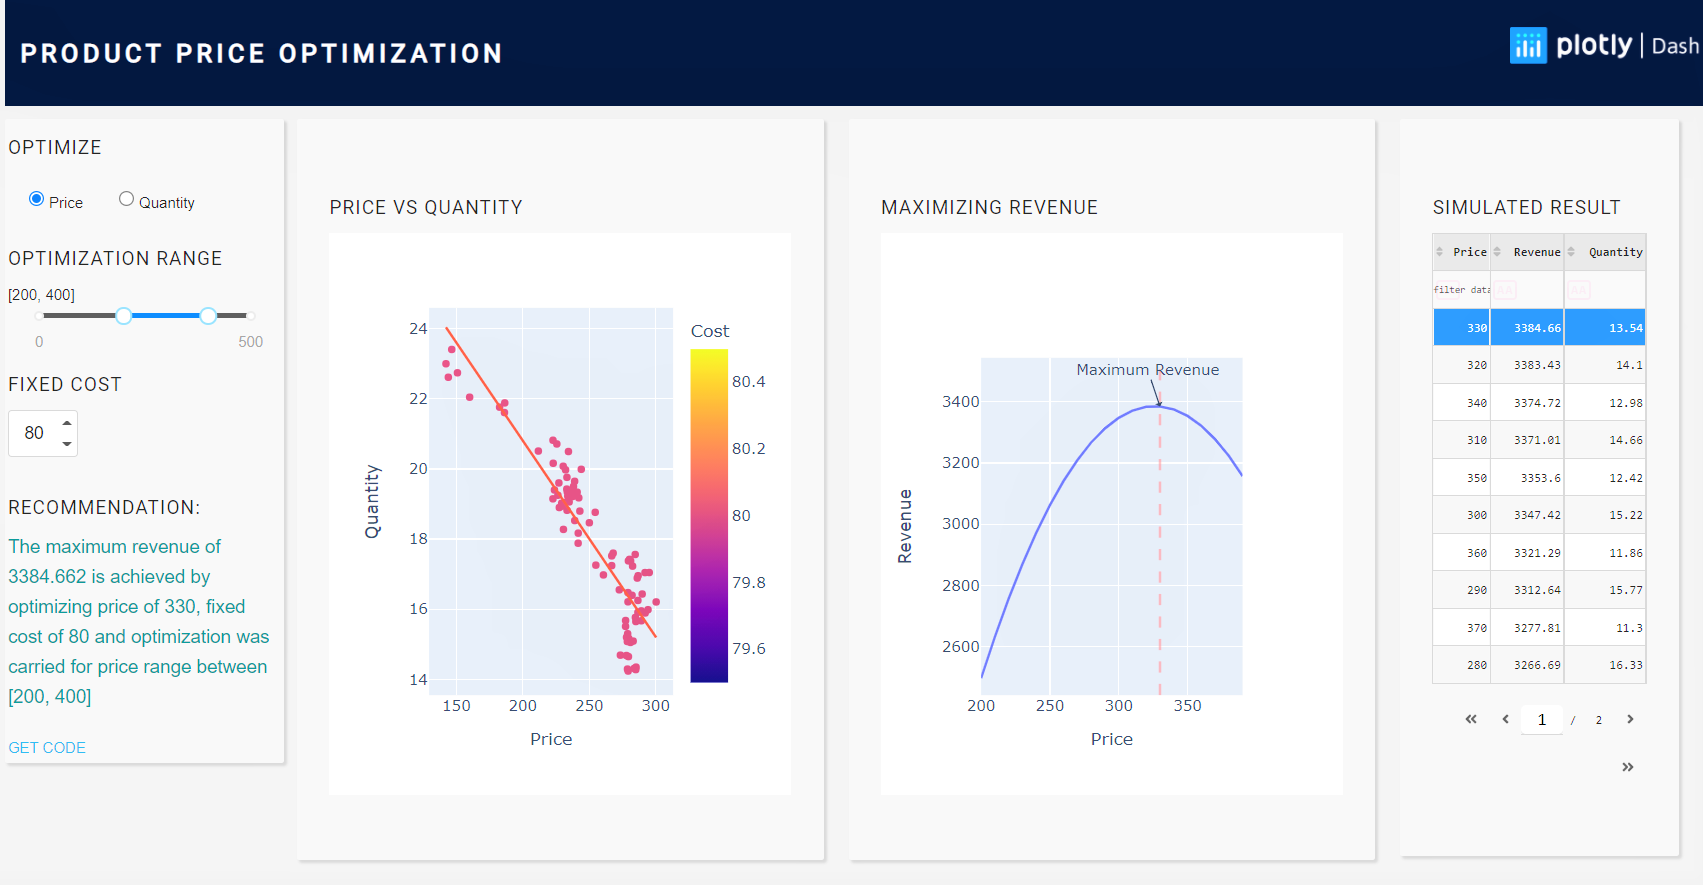
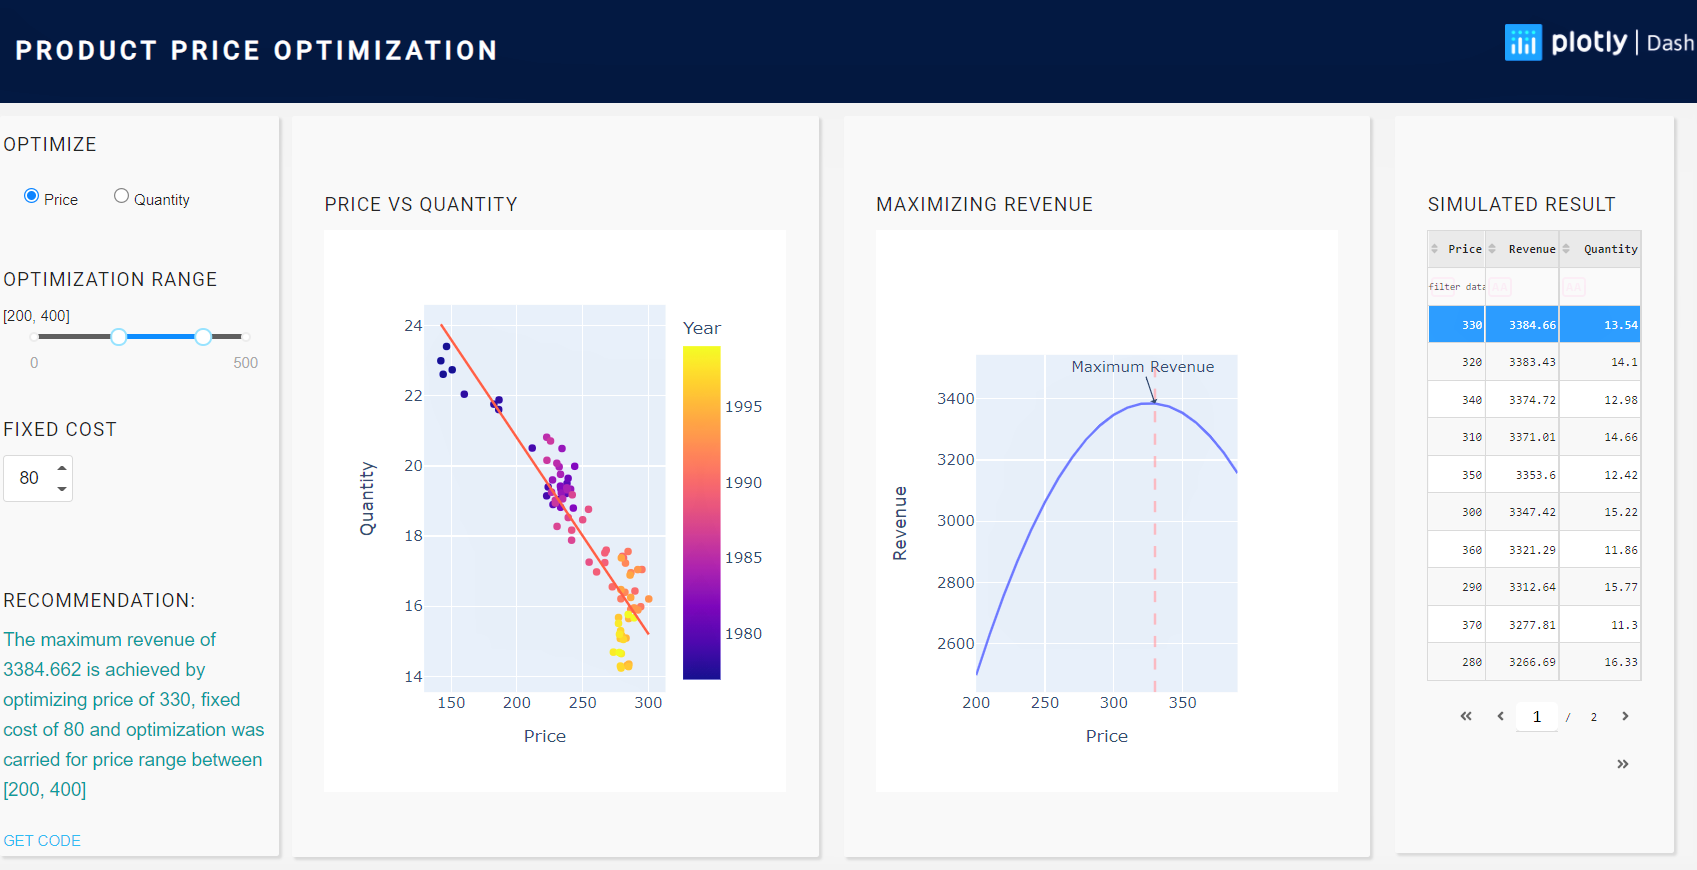
changes made to figures

diff --git a/Price Optimization/app.py b/Price Optimization/app.py
@@ -77,6 +77,7 @@ app.layout = html.Div(
                                 ),
                             ],
                         ),
+                        html.Br(),
                         html.Div(
                             className="padding-top-bot",
                             children=[
@@ -102,7 +103,7 @@ app.layout = html.Div(
                         ),
 
 
-                        # html.Br(),
+                        html.Br(),
                         html.Div(
                             className="padding-top-bot",
                             children=[
@@ -123,12 +124,15 @@ app.layout = html.Div(
                             ],
                         ),
                         html.Br(),
+                        html.Br(),
+                        html.Br(),
+                        
                         html.H6("RECOMMENDATION:"),
                         html.Div(
                             id = 'id-insights', style={'color': 'DarkCyan', 'fontSize': 15} 
                         ),
                         html.Br(),                    
-                        html.Div(dbc.Button("GET CODE", color="primary", className="mr-1", href="https://github.com/amitvkulkarni/Data-Apps/tree/main/Price%20Opitimization",target='_blank')),
+                        html.Div(dbc.Button("GET CODE", color="primary", className="mr-1", href="https://github.com/amitvkulkarni/Data-Apps/tree/main/Price%20Optimization",target='_blank')),
 
 
 

diff --git a/Price Optimization/Python/optimize_price.py b/Price Optimization/Python/optimize_price.py
@@ -11,9 +11,23 @@ import plotly.graph_objects as go
 df = pd.read_csv('Data/price.csv')
 
 def fun_optimize(var_opt, var_range, var_cost, df):
+    """[summary]
+
+    Args:
+        var_opt ([string]): [The value will be either price or quantity based on the selection made from UI]
+        var_range ([int]): [The value will be maximum & minimum price based on selection made from range slider from UI]
+        var_cost ([type]): [This is the fixed cost entered from UI]
+        df ([type]): [The data set for our usecase]
+
+    Returns:
+        [list]: [Returns a dataframe for table, 
+                chart for Price Vs Quantity, 
+                chart for optimized price set for maximum revenue, 
+                Optimized value of revenue]
+    """
 
     fig_PriceVsQuantity = px.scatter(
-        df, x="Price", y="Quantity", color="Cost", trendline="ols")
+        df, x="Price", y="Quantity", color="Year", trendline="ols")
 
     # fit OLS model
     model = ols("Quantity ~ Price", data=df).fit()
@@ -31,10 +45,7 @@ def fun_optimize(var_opt, var_range, var_cost, df):
         {"Price": Price, "Revenue": Revenue, "Quantity": quantity})
 
     max_val = profit.loc[(profit['Revenue'] == profit['Revenue'].max())]
-    #print(max_val)
-    #max_price = max_val['Price'].values[0]
-    #print(max_price)
-    
+        
     fig_PriceVsRevenue = go.Figure()
     fig_PriceVsRevenue.add_trace(go.Scatter(
         x=profit['Price'], y=profit['Revenue']))

diff --git a/Price Optimization/Python/optimize_quantity.py b/Price Optimization/Python/optimize_quantity.py
@@ -9,9 +9,23 @@ import plotly.graph_objects as go
 
 
 def fun_optimize(var_opt, var_range, var_cost, df):
+    """[summary]
+
+    Args:
+        var_opt ([string]): [The value will be either price or quantity based on the selection made from UI]
+        var_range ([int]): [The value will be maximum & minimum quantity based on selection made from range slider from UI]
+        var_cost ([type]): [This is the fixed cost entered from UI]
+        df ([type]): [The data set for our usecase]
+
+    Returns:
+        [list]: [Returns a dataframe for table, 
+                chart for Price Vs Quantity, 
+                chart for optimized quantity set for maximum revenue, 
+                Optimized value of revenue]
+    """
 
     fig_PriceVsQuantity = px.scatter(
-        df, x="Price", y="Quantity", color="Cost", trendline="ols")
+        df, x="Price", y="Quantity", color="Year", trendline="ols")
 
     # fit OLS model
     model = ols("Price ~ Quantity ", data=df).fit()
